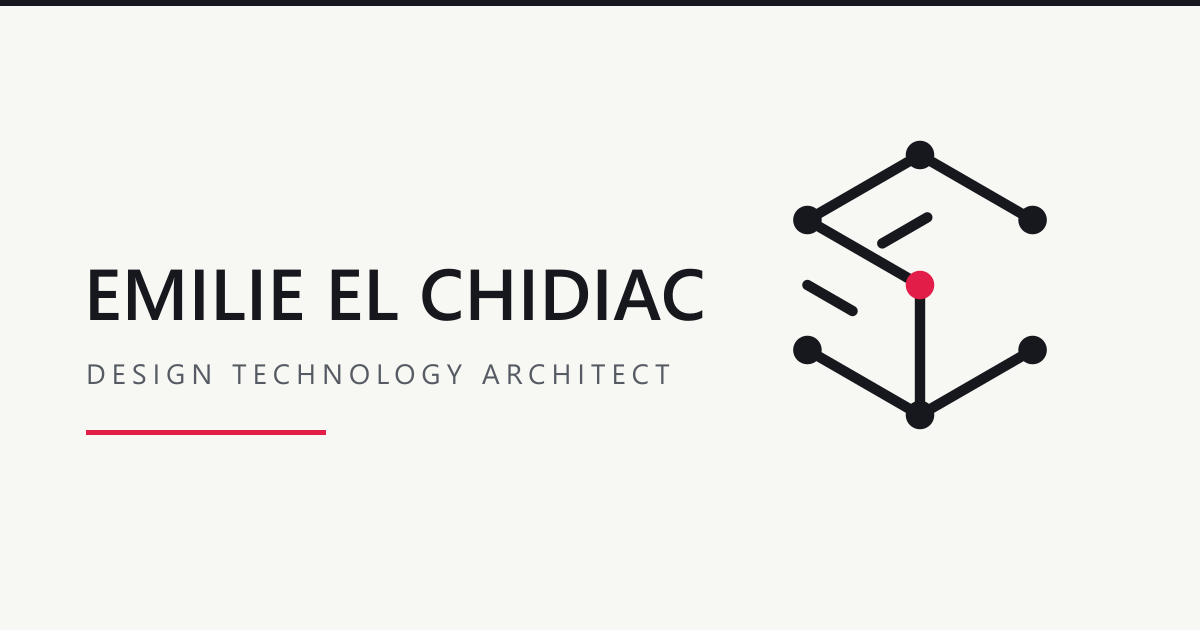
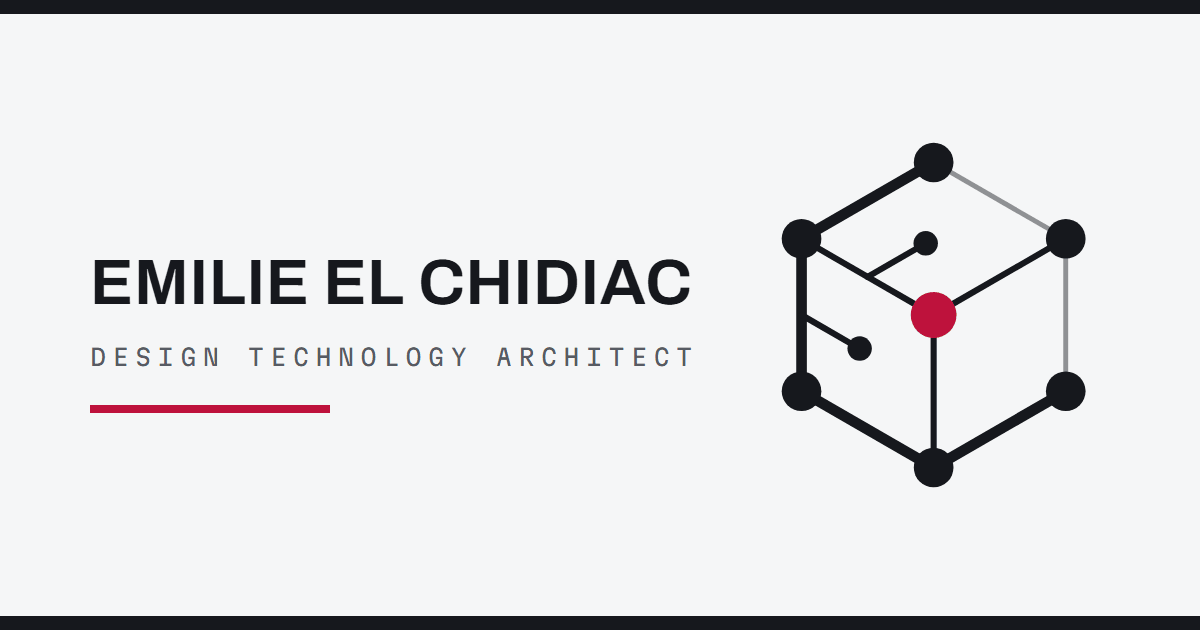
feat(brand): THE CONSTELLATION CUBE + the LCP fix
The EEC mark redrawn as a constellation (CE, approved in-session): the two
E's grow from one shared spine, three depths of line, every thread running
into the one red node. LogoMark is mode-aware always; the tone prop is
deleted, which fixes the landing mark vanishing in light mode. Favicon set
(svg + 16/32 + apple-touch) and OG card regenerated from the new emblem;
DESIGN-LANGUAGE gains the emblem spec (4.5).

LCP: preload only the fonts the hero sets (serif preloads dropped, Caveat
added low priority; the handwritten line was the LCP element) and split
MindGraphView, About, CV out of the entry chunk. Local mobile Lighthouse:
LCP 4.1s to 2.9s, FCP 2.0s to 1.5s, perf 85 to 95, CLS 0.

diff --git a/site/src/components/LogoMark.tsx b/site/src/components/LogoMark.tsx
@@ -1,63 +1,63 @@
-// The EEC graph cube (A1, approved 2026-07-06).
-// Geometry is the 2022 mark rebuilt on a true 30-degree isometric grid:
-// 8 strokes, 7 vertex nodes, one redline node where the three letters meet.
-// Letter anatomy (Emilie's canonical mapping): E1 = left face (spine is the
-// implied left edge), E2 = top face, C = right face. The implied edge
-// between center and right corner is shared: E2's bottom bar + C's top arm.
-// The mark is always static (the plot-in ceremony was retired in Session 4:
-// no caller ever animated it).
-
-const s = 100
-const ux = 86.6
-const P = {
-  B: [0, 0], P1: [ux, -50], P2: [-ux, -50], P3: [0, -s],
-  P4: [ux, -150], P5: [-ux, -150], T: [0, -2 * s],
-} as const
+// THE EEC CONSTELLATION CUBE (CE, approved 2026-07-12; supersedes the A1
+// graph cube of 2026-07-06). Same true 30-degree isometric grid, same
+// canonical letter mapping (Emilie's): E1 = left face, E2 = top face,
+// C = right face. E2's spine sits on the edge it shares with E1 (the two
+// E's grow from one stroke), and E2's far bar is the same stroke as the
+// C's top arm. The mark draws at three depths:
+//   shell  (heavy) - the outer letter strokes: E2's near bar, E1's spine
+//                    and bottom bar, C's bottom arm;
+//   thread (thin)  - every stroke that touches the redline node: the
+//                    shared spines, the C's own spine, both middle dashes;
+//   ghost  (faint) - the two back-right edges that only close the cube.
+// 6 corner nodes + 2 dash-tip nodes; the redline node stays at the vertex
+// where all three letters meet (red = interaction/liveness only, DL v2).
+// Mode-aware ALWAYS: ink rides --lang-ink, red rides --lang-interaction,
+// so the mark is correct on both grounds with no per-caller tone (the
+// tone prop retired with this mark; it caused the light-mode vanishing).
+// The mark is always static (the plot-in ceremony was retired in Session 4).
 
 type Pt = readonly [number, number]
-const dash = (start: Pt, dir: Pt, len: number): [Pt, Pt] =>
-  [start, [start[0] + dir[0] * len, start[1] + dir[1] * len]]
+const P = {
+  T: [0, -200], P4: [86.6, -150], P5: [-86.6, -150], P3: [0, -100],
+  P2: [-86.6, -50], P1: [86.6, -50], B: [0, 0],
+} as const
 
-const dashTop = dash([-29, -132], [0.866, -0.5], 40)
-const dashLeft = dash([-ux, -100], [0.866, 0.5], 40)
+// Middle dashes: from the midpoint of each E's spine, 44 units along the
+// bar direction; their tips are nodes (the constellation's small stars).
+const M1: Pt = [-48.5, -78]
+const M2: Pt = [-5.2, -147]
 
-// Reading order: E1 (left), E2 (top), C (right)
-const STROKES: [Pt, Pt][] = [
-  [P.P5, P.P3], dashLeft, [P.P2, P.B], // E1
-  [P.T, P.P5], dashTop, [P.T, P.P4], // E2
-  [P.P3, P.B], [P.B, P.P1], // C
+const SHELL: [Pt, Pt][] = [
+  [P.P5, P.T], [P.P5, P.P2], [P.P2, P.B], [P.B, P.P1],
 ]
-const VERTS: Pt[] = [P.T, P.P4, P.P5, P.P3, P.P2, P.B, P.P1]
+const THREAD: [Pt, Pt][] = [
+  [P.P5, P.P3], [P.P3, P.P4], [P.P3, P.B],
+  [[-86.6, -100], M1], [[-43.3, -125], M2],
+]
+const GHOST: [Pt, Pt][] = [[P.T, P.P4], [P.P4, P.P1]]
+const CORNERS: Pt[] = [P.T, P.P4, P.P5, P.P2, P.B, P.P1]
 
 export interface LogoMarkProps {
   /** rendered height in px */
   size?: number
-  /** ink = light ground, wire = dark ground, lang = mode-aware (DL v2 tokens) */
-  tone?: 'ink' | 'wire' | 'lang'
-  /** vertex nodes (off for very small sizes) */
-  nodes?: boolean
-  /** the redline vertex where the three letters meet */
-  redNode?: boolean
   className?: string
 }
 
-export default function LogoMark({
-  size = 32,
-  tone = 'ink',
-  nodes = true,
-  redNode = true,
-  className,
-}: LogoMarkProps) {
-  const ink =
-    tone === 'lang' ? 'var(--lang-ink)' : tone === 'ink' ? 'var(--color-ink)' : 'var(--color-ink-dark)'
-  const red =
-    tone === 'lang'
-      ? 'var(--lang-interaction)'
-      : tone === 'ink'
-        ? 'var(--color-redline-stroke)'
-        : 'var(--color-redline-wire)'
-  const r = 11
+const strokeGroup = (lines: [Pt, Pt][], width: number, opacity?: number) => (
+  <g
+    stroke="var(--lang-ink)"
+    strokeWidth={width}
+    strokeLinecap="round"
+    fill="none"
+    opacity={opacity}
+  >
+    {lines.map(([a, b], i) => (
+      <line key={i} x1={a[0]} y1={a[1]} x2={b[0]} y2={b[1]} />
+    ))}
+  </g>
+)
 
+export default function LogoMark({ size = 32, className }: LogoMarkProps) {
   return (
     <svg
       height={size}
@@ -67,23 +67,15 @@ export default function LogoMark({
       aria-label="EEC"
       className={className}
     >
-      <g stroke={ink} strokeWidth={8} strokeLinecap="round" fill="none">
-        {STROKES.map(([a, b], i) => (
-          <line key={i} x1={a[0]} y1={a[1]} x2={b[0]} y2={b[1]} pathLength={100} />
-        ))}
-      </g>
-      {nodes &&
-        VERTS.map((p, i) => {
-          const isRed = redNode && p === P.P3
-          return (
-            <circle
-              key={i}
-              cx={p[0]} cy={p[1]}
-              r={isRed ? r * 1.15 : r}
-              fill={isRed ? red : ink}
-            />
-          )
-        })}
+      {strokeGroup(SHELL, 7)}
+      {strokeGroup(THREAD, 4)}
+      {strokeGroup(GHOST, 3.2, 0.45)}
+      {CORNERS.map((p, i) => (
+        <circle key={i} cx={p[0]} cy={p[1]} r={13} fill="var(--lang-ink)" />
+      ))}
+      <circle cx={M1[0]} cy={M1[1]} r={8} fill="var(--lang-ink)" />
+      <circle cx={M2[0]} cy={M2[1]} r={8} fill="var(--lang-ink)" />
+      <circle cx={P.P3[0]} cy={P.P3[1]} r={15} fill="var(--lang-interaction)" />
     </svg>
   )
 }

diff --git a/site/src/landing/LandingCover.tsx b/site/src/landing/LandingCover.tsx
@@ -11,15 +11,20 @@
 // Copy: the adjective line, the positioning line, and the margin wink were all
 // SIGNED by Emilie at G4 (2026-07-12). The "Behavior Information Modeling"
 // spine is LOCKED content (reachable via the graph's nodes).
-import { useEffect, useMemo, useRef, useState, type ReactNode } from 'react'
+import { lazy, Suspense, useEffect, useMemo, useRef, useState, type ReactNode } from 'react'
 import { Link, useNavigate } from 'react-router-dom'
 import ExploreErrorBoundary from '../components/ExploreErrorBoundary'
 import LogoMark from '../components/LogoMark'
 import ModeToggle from '../components/ui/ModeToggle'
-import MindGraph from './MindGraphView'
 import MindGraphSrNav from './MindGraphSrNav'
 import { MIND, nodeRoute, starPath } from './mindGraph'
 import { assertPaletteMatchesTheme } from './palette'
+
+// The artwork is split out of the entry chunk (LCP, 2026-07-12): the honest
+// DOM hero paints without it, and the draw-in work stays out of the first
+// paint's window. The chunk failing to load degrades through the same error
+// boundary as a render throw: the no-graph state, hero intact.
+const MindGraph = lazy(() => import('./MindGraphView'))
 
 // SIGNED (G4, 2026-07-12). The role adjectives; the positioning line whose
 // "minds" carries the niche; the margin wink.
@@ -236,7 +241,7 @@ export default function LandingCover() {
         <header className="flex flex-col">
           {/* TIER 1 — name */}
           <div className="flex items-center gap-3">
-            <LogoMark size={40} tone="wire" className="shrink-0" />
+            <LogoMark size={40} className="shrink-0" />
             <h1 className="font-display text-[27px] font-semibold leading-[0.98] tracking-[0.01em] whitespace-nowrap text-[var(--lang-ink)] sm:text-[41.83px]">
               EMILIE EL CHIDIAC
             </h1>
@@ -308,7 +313,9 @@ export default function LandingCover() {
           still lists everything) while the honest hero above stays painted. */}
       <div className="relative z-0 min-h-[46svh] flex-1 sm:absolute sm:inset-0 sm:min-h-0">
         <ExploreErrorBoundary fallback={null}>
-          <MindGraph />
+          <Suspense fallback={null}>
+            <MindGraph />
+          </Suspense>
         </ExploreErrorBoundary>
       </div>
 

diff --git a/site/index.html b/site/index.html
@@ -3,6 +3,9 @@
   <head>
     <meta charset="UTF-8" />
     <link rel="icon" type="image/svg+xml" href="/favicon.svg" />
+    <link rel="icon" type="image/png" sizes="32x32" href="/favicon-32.png" />
+    <link rel="icon" type="image/png" sizes="16x16" href="/favicon-16.png" />
+    <link rel="apple-touch-icon" sizes="180x180" href="/apple-touch-icon.png" />
     <meta name="viewport" content="width=device-width, initial-scale=1.0" />
     <!-- DL v2 mode system: re-apply a persisted toggle choice BEFORE first
          paint so a forced mode never flashes the other ground. The default
@@ -30,19 +33,18 @@
       crossorigin
       href="/src/assets/fonts/martian-mono-400.woff2"
     />
+    <!-- LCP pass (2026-07-12): only the fonts the landing hero actually sets
+         are preloaded. The two Source Serif files (~246KB) moved off the
+         critical path (prose pages swap them in on first navigation); Caveat
+         joined at low priority because the handwritten positioning line IS
+         the landing's LCP element, and its late swap was the LCP. -->
     <link
       rel="preload"
       as="font"
       type="font/woff2"
       crossorigin
-      href="/src/assets/fonts/source-serif-var.woff2"
-    />
-    <link
-      rel="preload"
-      as="font"
-      type="font/woff2"
-      crossorigin
-      href="/src/assets/fonts/source-serif-var-italic.woff2"
+      fetchpriority="low"
+      href="/src/assets/fonts/caveat-var.woff2"
     />
     <title>Emilie El Chidiac | Design Technology Architect</title>
     <meta
@@ -61,7 +63,7 @@
     <meta property="og:image:height" content="630" />
     <meta
       property="og:image:alt"
-      content="Emilie El Chidiac, Design Technology Architect: the EEC cube mark drawn as a graph with one red node"
+      content="Emilie El Chidiac, Design Technology Architect: the EEC constellation cube mark, a graph cube with one red node"
     />
     <meta name="twitter:card" content="summary_large_image" />
     <!-- GoatCounter: cookieless page counting, opted in 2026-07-07 (see

diff --git a/site/src/App.tsx b/site/src/App.tsx
@@ -7,17 +7,21 @@ import {
   type RouteObject,
 } from 'react-router-dom'
 import Home from './pages/Home'
-import About from './pages/About'
-import CV from './pages/CV'
 import NotFound from './pages/NotFound'
 import SheetRoute from './pages/SheetRoute'
 
 // Split out of the landing chunk so the perf-budgeted cover stays lean: the
 // gallery (with its overlay + video code) and the note prose only load when
-// someone actually opens /work or /thoughts/:id.
+// someone actually opens /work or /thoughts/:id. About + CV joined them at
+// the LCP pass (2026-07-12): they pull SheetPage/Surface and their data
+// files, none of which the landing needs. NotFound stays eager (a chunk
+// error on the error page is the worst failure mode); SheetRoute is a
+// 15-line redirect whose registry import ships in the entry anyway.
 const Work = lazy(() => import('./pages/Work'))
 const Thoughts = lazy(() => import('./pages/Thoughts'))
 const ThoughtRoute = lazy(() => import('./pages/ThoughtRoute'))
+const About = lazy(() => import('./pages/About'))
+const CV = lazy(() => import('./pages/CV'))
 
 // THE PRIMITIVES LAB (DL-0): dev-only verification surface for the DL v2
 // foundation. The DEV gate makes the whole chunk unreachable in prod, so it
@@ -153,8 +157,22 @@ export const routes: RouteObject[] = [
         ),
       },
       { path: '/notebook', element: <NotebookRedirect /> },
-      { path: '/about', element: <About /> },
-      { path: '/cv', element: <CV /> },
+      {
+        path: '/about',
+        element: (
+          <Suspense fallback={<MylarScreen />}>
+            <About />
+          </Suspense>
+        ),
+      },
+      {
+        path: '/cv',
+        element: (
+          <Suspense fallback={<MylarScreen />}>
+            <CV />
+          </Suspense>
+        ),
+      },
       { path: '/sheets/:sheetId', element: <SheetRoute /> },
       {
         path: '/thoughts/:id',

diff --git a/site/src/components/TitleBlock.tsx b/site/src/components/TitleBlock.tsx
@@ -35,7 +35,7 @@ export default function TitleBlock() {
           aria-label="Home"
           className="flex size-11 shrink-0 items-center justify-center rounded-[var(--r-pill)] focus-visible:outline-2 focus-visible:outline-offset-2 focus-visible:outline-[var(--lang-interaction)]"
         >
-          <LogoMark size={26} tone="lang" />
+          <LogoMark size={26} />
         </Link>
         <nav
           aria-label="Primary"

diff --git a/DESIGN-LANGUAGE.md b/DESIGN-LANGUAGE.md
@@ -242,6 +242,38 @@ not the dominant texture it was in Pen Table.
 
 ---
 
+## 4.5 · The emblem (CE, the constellation cube; approved 2026-07-12)
+
+The EEC mark is a graph cube: the 2022 iso cube rebuilt as a small constellation,
+chosen from a three-direction exploration (neuron / cube / "em" monogram) and
+three cube rounds. It supersedes the A1 graph cube (2026-07-06).
+`site/src/components/LogoMark.tsx` is the geometry of record; `public/favicon.svg`
+carries the same geometry with beefed weights for tab sizes.
+
+- **Letter anatomy** (Emilie's canonical mapping, unchanged): E1 = left face,
+  E2 = top face, C = right face. New in CE: E2's spine sits on the edge it
+  shares with E1 (the two E's grow from one stroke), and E2's far bar is the
+  same stroke as the C's top arm.
+- **Three depths of line**: the outer shell heavy (w7); every thread that
+  touches the redline node thin (w4); the two back-right edges that only close
+  the cube as a 45% ghost (w3.2). The object converges into its live point.
+- **Nodes**: 6 corner nodes (r13) + 2 dash-tip nodes (r8), ink. The redline
+  node (r15) stays at the vertex where all three letters meet, and rides
+  `--lang-interaction` (red = interaction/liveness, §6; the mark's one red).
+- **Mode-aware always**: ink is `--lang-ink`, red is `--lang-interaction`.
+  There is no tone prop and no ground-pinned variant; the mark is correct on
+  both grounds everywhere (the old `tone="wire"` pin is what made the landing
+  mark vanish in light mode).
+- **Static always**: no plot-in, no hover ceremony (unchanged since Session 4).
+- **Derivatives**: `favicon.svg` self-themes via `prefers-color-scheme`;
+  `favicon-16/32.png` fallbacks + `apple-touch-icon.png` (light ground) ship
+  the light-mode pair; `og.png` (1200x630) sets the mark at 360px on the light
+  ground next to the name. Regenerate all of them together if the geometry
+  ever changes.
+- `aria-label="EEC"`, `role="img"` (a11y floor).
+
+---
+
 ## 5 · Components (specs; primitives ship in `site/src/components/ui/`)
 
 - **Pill** (`Pill.tsx`) — the compact metadata unit, `--r-pill`. Variants:
